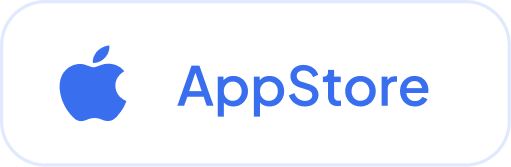
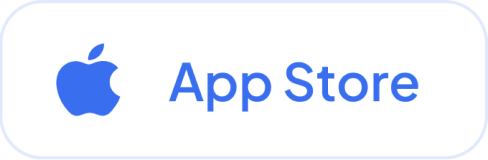
Ganti tombol App Store AyoMuslim & AyoSiswa sesuai Figma terbaru
- Badge baru (teks "App Store", 122x40, ekspor 4x) dengan sudut transparan
- Atribut width gambar 123 -> 122

diff --git a/script.js b/script.js
@@ -193,7 +193,7 @@ function buatKartu(p, urutan) {
   if (links.playStore || links.appStore) {
     lapisan += `<div class="work-card__stores${p.badgePosition === "right" ? " work-card__stores--right" : ""}">
       ${links.playStore ? `<a class="store-badge" href="${aman(links.playStore)}" ${LINK_BARU} aria-label="${aman(p.name)} di Google Play"><img src="assets/img/works/badge-play-store.png" alt="" width="124" height="40" draggable="false"></a>` : ""}
-      ${links.appStore ? `<a class="store-badge" href="${aman(links.appStore)}" ${LINK_BARU} aria-label="${aman(p.name)} di App Store"><img src="assets/img/works/badge-app-store.png" alt="" width="123" height="40" draggable="false"></a>` : ""}
+      ${links.appStore ? `<a class="store-badge" href="${aman(links.appStore)}" ${LINK_BARU} aria-label="${aman(p.name)} di App Store"><img src="assets/img/works/badge-app-store.png" alt="" width="122" height="40" draggable="false"></a>` : ""}
     </div>`;
   }
   if (p.status === "in-development") {
